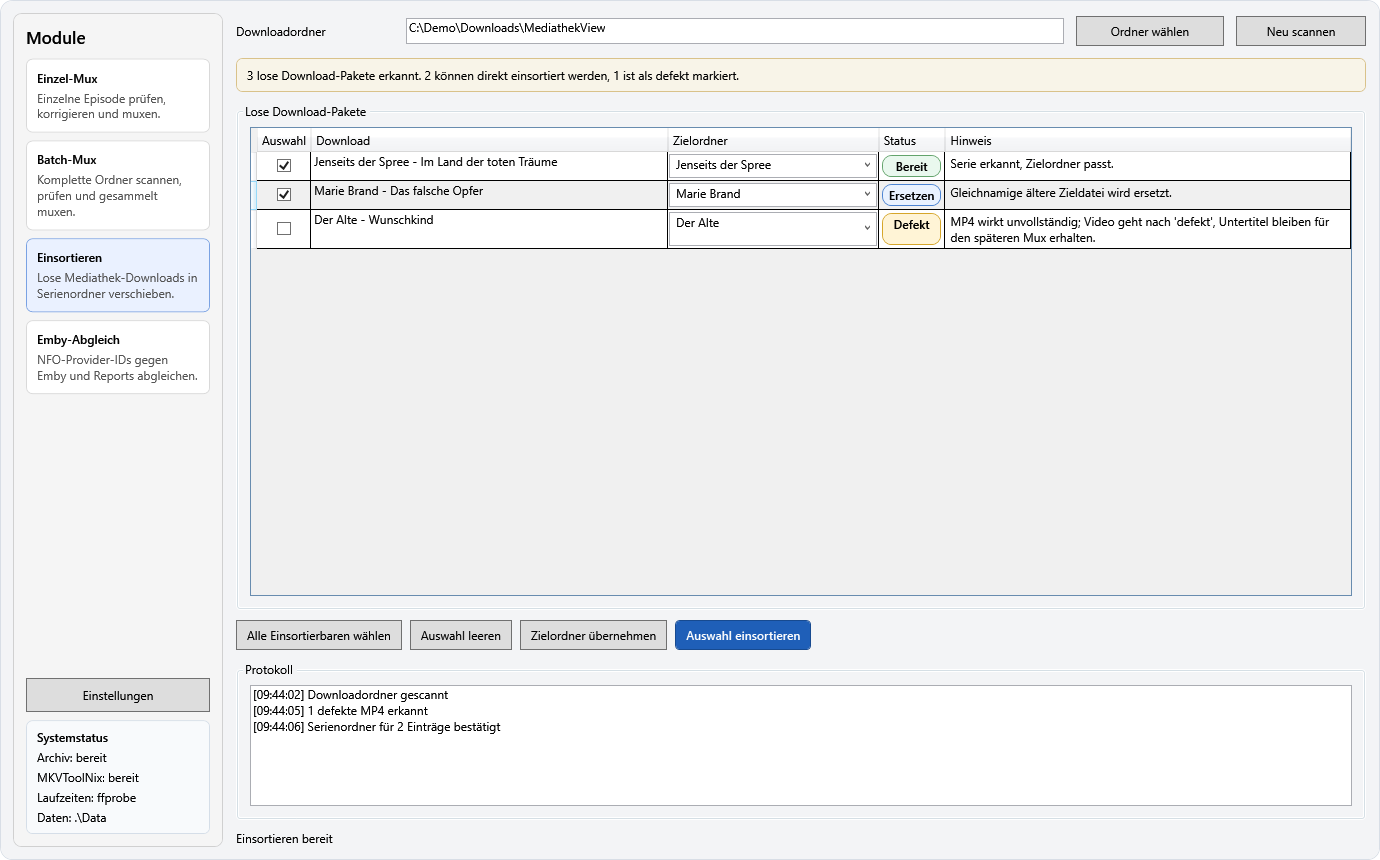
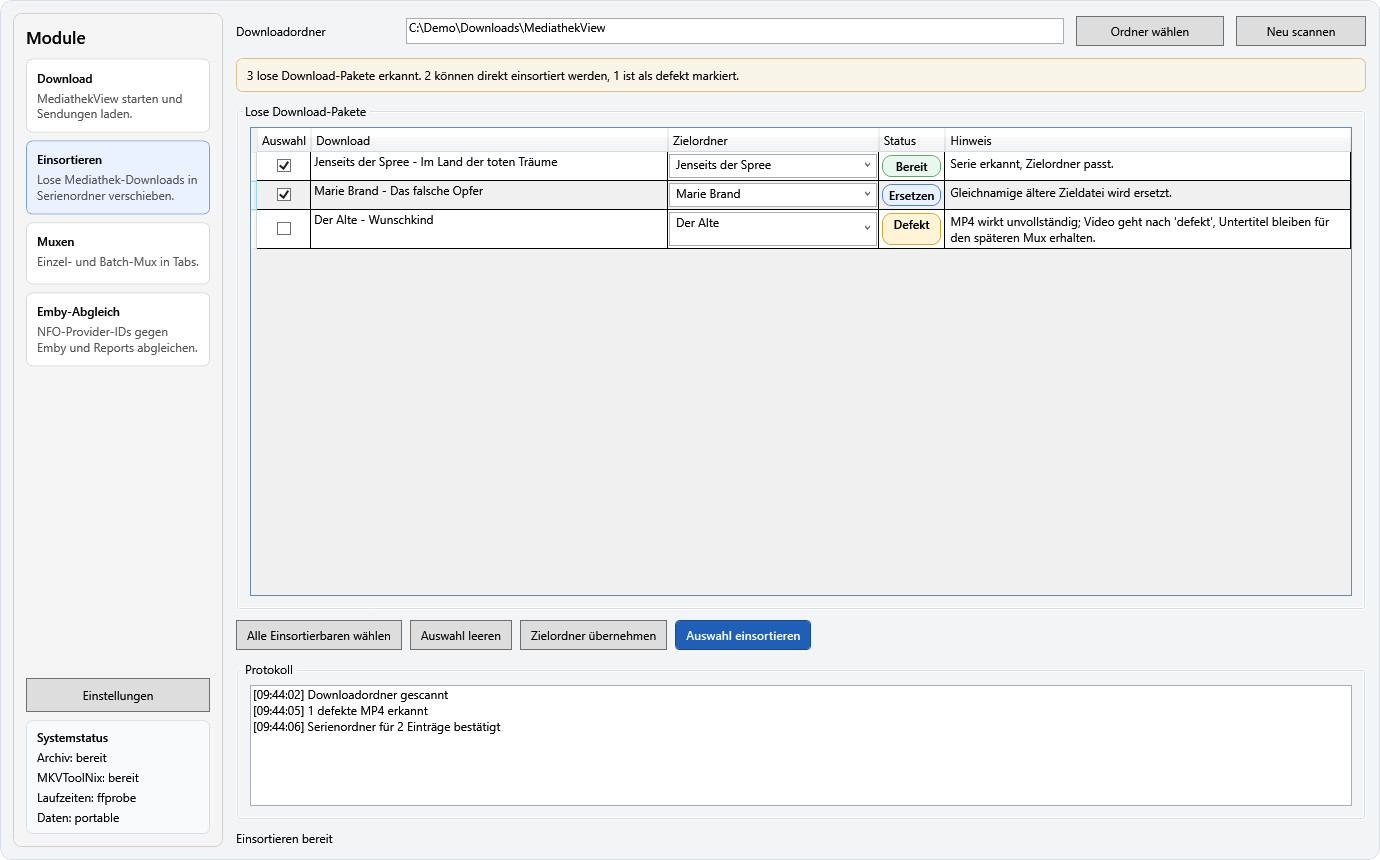
Update workflow navigation screenshots

Changed region(s): [[0.0, 0.1814, 0.1558, 0.4535], [0.0312, 0.0907, 0.1246, 0.1512], [0.0623, 0.9372, 0.0935, 0.9674]]

diff --git a/Views/MuxModuleView.xaml b/Views/MuxModuleView.xaml
@@ -3,7 +3,7 @@
              xmlns:x="http://schemas.microsoft.com/winfx/2006/xaml"
              xmlns:views="clr-namespace:MkvToolnixAutomatisierung.Views">
     <Grid>
-        <TabControl>
+        <TabControl SelectedIndex="{Binding SelectedTabIndex, Mode=TwoWay}">
             <TabItem Header="Einzel-Mux">
                 <views:SingleEpisodeMuxView DataContext="{Binding SingleMux}" />
             </TabItem>

diff --git a/tools/ReadmeScreenshotGenerator/Program.cs b/tools/ReadmeScreenshotGenerator/Program.cs
@@ -28,25 +28,14 @@ internal static class Program
         {
             RenderScreenshot(
                 outputDirectory,
-                "single-mux.png",
-                "Einzel-Mux",
-                new SingleEpisodeMuxView
+                "download.png",
+                "Download",
+                new DownloadView
                 {
-                    DataContext = DemoData.CreateSingleViewModel()
+                    DataContext = DemoData.CreateDownloadViewModel()
                 },
-                1420,
-                900);
-
-            RenderScreenshot(
-                outputDirectory,
-                "batch-mux.png",
-                "Batch-Mux",
-                new BatchMuxView
-                {
-                    DataContext = DemoData.CreateBatchViewModel()
-                },
-                1480,
-                940);
+                1320,
+                820);
 
             RenderScreenshot(
                 outputDirectory,
@@ -58,6 +47,28 @@ internal static class Program
                 },
                 1380,
                 860);
+
+            RenderScreenshot(
+                outputDirectory,
+                "mux-single.png",
+                "Muxen",
+                new MuxModuleView
+                {
+                    DataContext = DemoData.CreateMuxModuleViewModel(selectedTabIndex: 0)
+                },
+                1480,
+                940);
+
+            RenderScreenshot(
+                outputDirectory,
+                "mux-batch.png",
+                "Muxen",
+                new MuxModuleView
+                {
+                    DataContext = DemoData.CreateMuxModuleViewModel(selectedTabIndex: 1)
+                },
+                1480,
+                980);
 
             RenderScreenshot(
                 outputDirectory,
@@ -212,7 +223,7 @@ internal static class Program
                 "Archiv: bereit",
                 "MKVToolNix: bereit",
                 "Laufzeiten: ffprobe",
-                @"Daten: .\Data"
+                "Daten: portable"
             ],
             "#F8FAFC",
             "#D5DEE8",

diff --git a/ViewModels/Modules/MuxModuleViewModel.cs b/ViewModels/Modules/MuxModuleViewModel.cs
@@ -1,3 +1,6 @@
+using System.ComponentModel;
+using System.Runtime.CompilerServices;
+
 namespace MkvToolnixAutomatisierung.ViewModels.Modules;
 
 /// <summary>
@@ -7,8 +10,10 @@ namespace MkvToolnixAutomatisierung.ViewModels.Modules;
 /// Die fachlichen ViewModels bleiben absichtlich getrennt. Der Wrapper ist nur die Shell-Schicht,
 /// damit globale Archivänderungen weiterhin beide Mux-Tabs erreichen.
 /// </remarks>
-internal sealed class MuxModuleViewModel : IArchiveConfigurationAwareModule
+internal sealed class MuxModuleViewModel : INotifyPropertyChanged, IArchiveConfigurationAwareModule
 {
+    private int _selectedTabIndex;
+
     public MuxModuleViewModel(
         SingleEpisodeMuxViewModel singleMux,
         BatchMuxViewModel batchMux)
@@ -16,6 +21,9 @@ internal sealed class MuxModuleViewModel : IArchiveConfigurationAwareModule
         SingleMux = singleMux;
         BatchMux = batchMux;
     }
+
+    /// <inheritdoc />
+    public event PropertyChangedEventHandler? PropertyChanged;
 
     /// <summary>
     /// ViewModel für den Einzel-Mux-Tab.
@@ -27,10 +35,33 @@ internal sealed class MuxModuleViewModel : IArchiveConfigurationAwareModule
     /// </summary>
     public BatchMuxViewModel BatchMux { get; }
 
+    /// <summary>
+    /// Aktuell sichtbarer Mux-Tab. Die Auswahl bleibt erhalten, solange das Hauptfenster läuft.
+    /// </summary>
+    public int SelectedTabIndex
+    {
+        get => _selectedTabIndex;
+        set
+        {
+            if (_selectedTabIndex == value)
+            {
+                return;
+            }
+
+            _selectedTabIndex = value;
+            OnPropertyChanged();
+        }
+    }
+
     /// <inheritdoc />
     public void HandleArchiveConfigurationChanged()
     {
         SingleMux.HandleArchiveConfigurationChanged();
         BatchMux.HandleArchiveConfigurationChanged();
+    }
+
+    private void OnPropertyChanged([CallerMemberName] string? propertyName = null)
+    {
+        PropertyChanged?.Invoke(this, new PropertyChangedEventArgs(propertyName));
     }
 }

diff --git a/tools/ReadmeScreenshotGenerator/DemoData.cs b/tools/ReadmeScreenshotGenerator/DemoData.cs
@@ -16,6 +16,30 @@ internal static class DemoData
         return (SolidColorBrush)new BrushConverter().ConvertFromString(hex)!;
     }
 
+    public static DemoDownloadViewModel CreateDownloadViewModel()
+    {
+        return new DemoDownloadViewModel
+        {
+            IsMediathekViewAvailable = true,
+            MediathekViewStatusText = "MediathekView bereit (portable)",
+            MediathekViewPathText = @"C:\Users\tobby\Downloads\MediathekView\MediathekView_Portable.exe",
+            StatusText = "MediathekView kann gestartet werden. Nach dem Download geht es mit Einsortieren weiter.",
+            StartMediathekViewCommand = NoOpCommand,
+            OpenToolSettingsCommand = NoOpCommand,
+            RefreshCommand = NoOpCommand
+        };
+    }
+
+    public static DemoMuxModuleViewModel CreateMuxModuleViewModel(int selectedTabIndex)
+    {
+        return new DemoMuxModuleViewModel
+        {
+            SingleMux = CreateSingleViewModel(),
+            BatchMux = CreateBatchViewModel(),
+            SelectedTabIndex = selectedTabIndex
+        };
+    }
+
     public static DemoSingleViewModel CreateSingleViewModel()
     {
         var languageOptions = new ObservableCollection<DemoLanguageOption>
@@ -414,9 +438,9 @@ internal static class DemoData
     {
         return
         [
-            new DemoChoice("Einzel-Mux", "Einzelne Episode prüfen, korrigieren und muxen."),
-            new DemoChoice("Batch-Mux", "Komplette Ordner scannen, prüfen und gesammelt muxen."),
+            new DemoChoice("Download", "MediathekView starten und Sendungen laden."),
             new DemoChoice("Einsortieren", "Lose Mediathek-Downloads in Serienordner verschieben."),
+            new DemoChoice("Muxen", "Einzel- und Batch-Mux in Tabs."),
             new DemoChoice("Emby-Abgleich", "NFO-Provider-IDs gegen Emby und Reports abgleichen.")
         ];
     }

diff --git a/tools/ReadmeScreenshotGenerator/DemoModels.cs b/tools/ReadmeScreenshotGenerator/DemoModels.cs
@@ -26,6 +26,24 @@ internal sealed record DemoChoice(string Title, string Description = "")
 
 internal sealed record DemoLanguageOption(string Code, string DisplayName);
 
+internal sealed class DemoDownloadViewModel
+{
+    public bool IsMediathekViewAvailable { get; init; }
+    public string MediathekViewStatusText { get; init; } = string.Empty;
+    public string MediathekViewPathText { get; init; } = string.Empty;
+    public string StatusText { get; init; } = string.Empty;
+    public ICommand StartMediathekViewCommand { get; init; } = new NoOpRelayCommand();
+    public ICommand OpenToolSettingsCommand { get; init; } = new NoOpRelayCommand();
+    public ICommand RefreshCommand { get; init; } = new NoOpRelayCommand();
+}
+
+internal sealed class DemoMuxModuleViewModel
+{
+    public DemoSingleViewModel SingleMux { get; init; } = new();
+    public DemoBatchViewModel BatchMux { get; init; } = new();
+    public int SelectedTabIndex { get; set; }
+}
+
 internal sealed class DemoSingleViewModel
 {
     public string MainVideoPath { get; init; } = string.Empty;

diff --git a/README.md b/README.md
@@ -28,24 +28,28 @@ Die App ist bewusst auf einen konkreten persönlichen Workflow zugeschnitten. Si
 
 ## Module
 
-- `Einzel-Mux`: für einen einzelnen Fall mit Vorschau, manueller Korrektur und anschließendem Mux
-- `Batch-Mux`: für einen kompletten Ordner mit Scan, Pflichtchecks, Ausführung, Cleanup und Protokoll
+- `Download`: zum Starten der installierten oder portablen MediathekView-Variante als erstem Workflow-Schritt
 - `Einsortieren`: für lose MediathekView-Dateien, die anhand erkannter Serienordner in Unterordner verschoben werden sollen
+- `Muxen`: fasst `Einzel-Mux` und `Batch-Mux` in Tabs zusammen
 - `Emby-Abgleich`: für neu erzeugte MKV-Dateien, deren NFO-Provider-IDs mit Emby abgeglichen werden sollen
 
 ## Screenshots
 
-### Einzel-Mux
+### Download
 
-![Einzel-Mux](docs/images/readme/single-mux.png)
-
-### Batch-Mux
-
-![Batch-Mux](docs/images/readme/batch-mux.png)
+![Download](docs/images/readme/download.png)
 
 ### Einsortieren
 
 ![Einsortieren](docs/images/readme/download-sort.png)
+
+### Muxen: Einzel-Mux
+
+![Muxen: Einzel-Mux](docs/images/readme/mux-single.png)
+
+### Muxen: Batch-Mux
+
+![Muxen: Batch-Mux](docs/images/readme/mux-batch.png)
 
 ### Emby-Abgleich
 
@@ -54,6 +58,7 @@ Die App ist bewusst auf einen konkreten persönlichen Workflow zugeschnitten. Si
 ## Voraussetzungen
 
 - Die veröffentlichte `.exe` benötigt die `.NET 10 Desktop Runtime`; für Builds aus dem Quellcode wird das `.NET 10 SDK` benötigt.
+- MediathekView bleibt das externe Download-Werkzeug. Die App kann eine installierte Version oder eine portable Variante im Downloadordner starten.
 - MKVToolNix und `ffprobe.exe` werden beim Start automatisch unter `.\Tools` bereitgestellt und aktualisiert, solange kein manueller Override in den Einstellungen gesetzt ist.
 - Wenn `ffprobe` nicht bereitgestellt werden kann, nutzt die App für Laufzeiten den Windows-Fallback.
 - Ein TVDB-API-Key ist optional. Er wird nur benötigt, wenn Serien- und Episodendaten über TVDB geprüft oder verbessert werden sollen.
@@ -75,13 +80,21 @@ Die App ist bewusst portabel gedacht und nicht für eine klassische Installation
 1. App starten.
 2. Über `Einstellungen` die selten geänderten Dinge zentral hinterlegen:
    - Standard-Archivpfad
+   - optional MediathekView-Pfad, falls die automatische Suche die portable Variante nicht findet
    - bei Bedarf manuelle Overrides für MKVToolNix oder `ffprobe`
    - optional TVDB-API-Key und PIN
    - optional Emby-Server und API-Key
 3. Im Hauptfenster darunter kurz prüfen, ob `Archiv`, `MKVToolNix` und die Laufzeitermittlung als bereit angezeigt werden.
-4. Danach mit `Einzel-Mux`, `Batch-Mux`, `Einsortieren` oder `Emby-Abgleich` arbeiten.
+4. Danach dem Workflow von oben nach unten folgen: `Download`, `Einsortieren`, `Muxen`, `Emby-Abgleich`.
 
-## Typischer Workflow: Einzel-Mux
+## Typischer Workflow: Download
+
+1. Im Modul `Download` `MediathekView starten` ausführen.
+2. Falls die App nicht gefunden wird, in `Einstellungen` den Pfad zur installierten oder portablen `MediathekView.exe` bzw. `MediathekView_Portable.exe` setzen.
+3. Sendungen wie gewohnt in MediathekView herunterladen.
+4. Danach im Modul `Einsortieren` mit den erzeugten Download-Dateien weiterarbeiten.
+
+## Typischer Workflow: Muxen, Einzel-Mux-Tab
 
 1. `Hauptvideo wählen`.
 2. Automatische Erkennung für Quelle, Begleitdateien und Metadaten prüfen.
@@ -90,7 +103,7 @@ Die App ist bewusst portabel gedacht und nicht für eine klassische Installation
 5. `Vorschau erzeugen`, um den geplanten `mkvmerge`-Aufruf zu kontrollieren.
 6. `Muxen`, um die MKV tatsächlich zu erstellen.
 
-## Typischer Workflow: Batch-Mux
+## Typischer Workflow: Muxen, Batch-Mux-Tab
 
 1. Quellordner wählen.
 2. Scan abwarten und gefundene Episoden prüfen.
